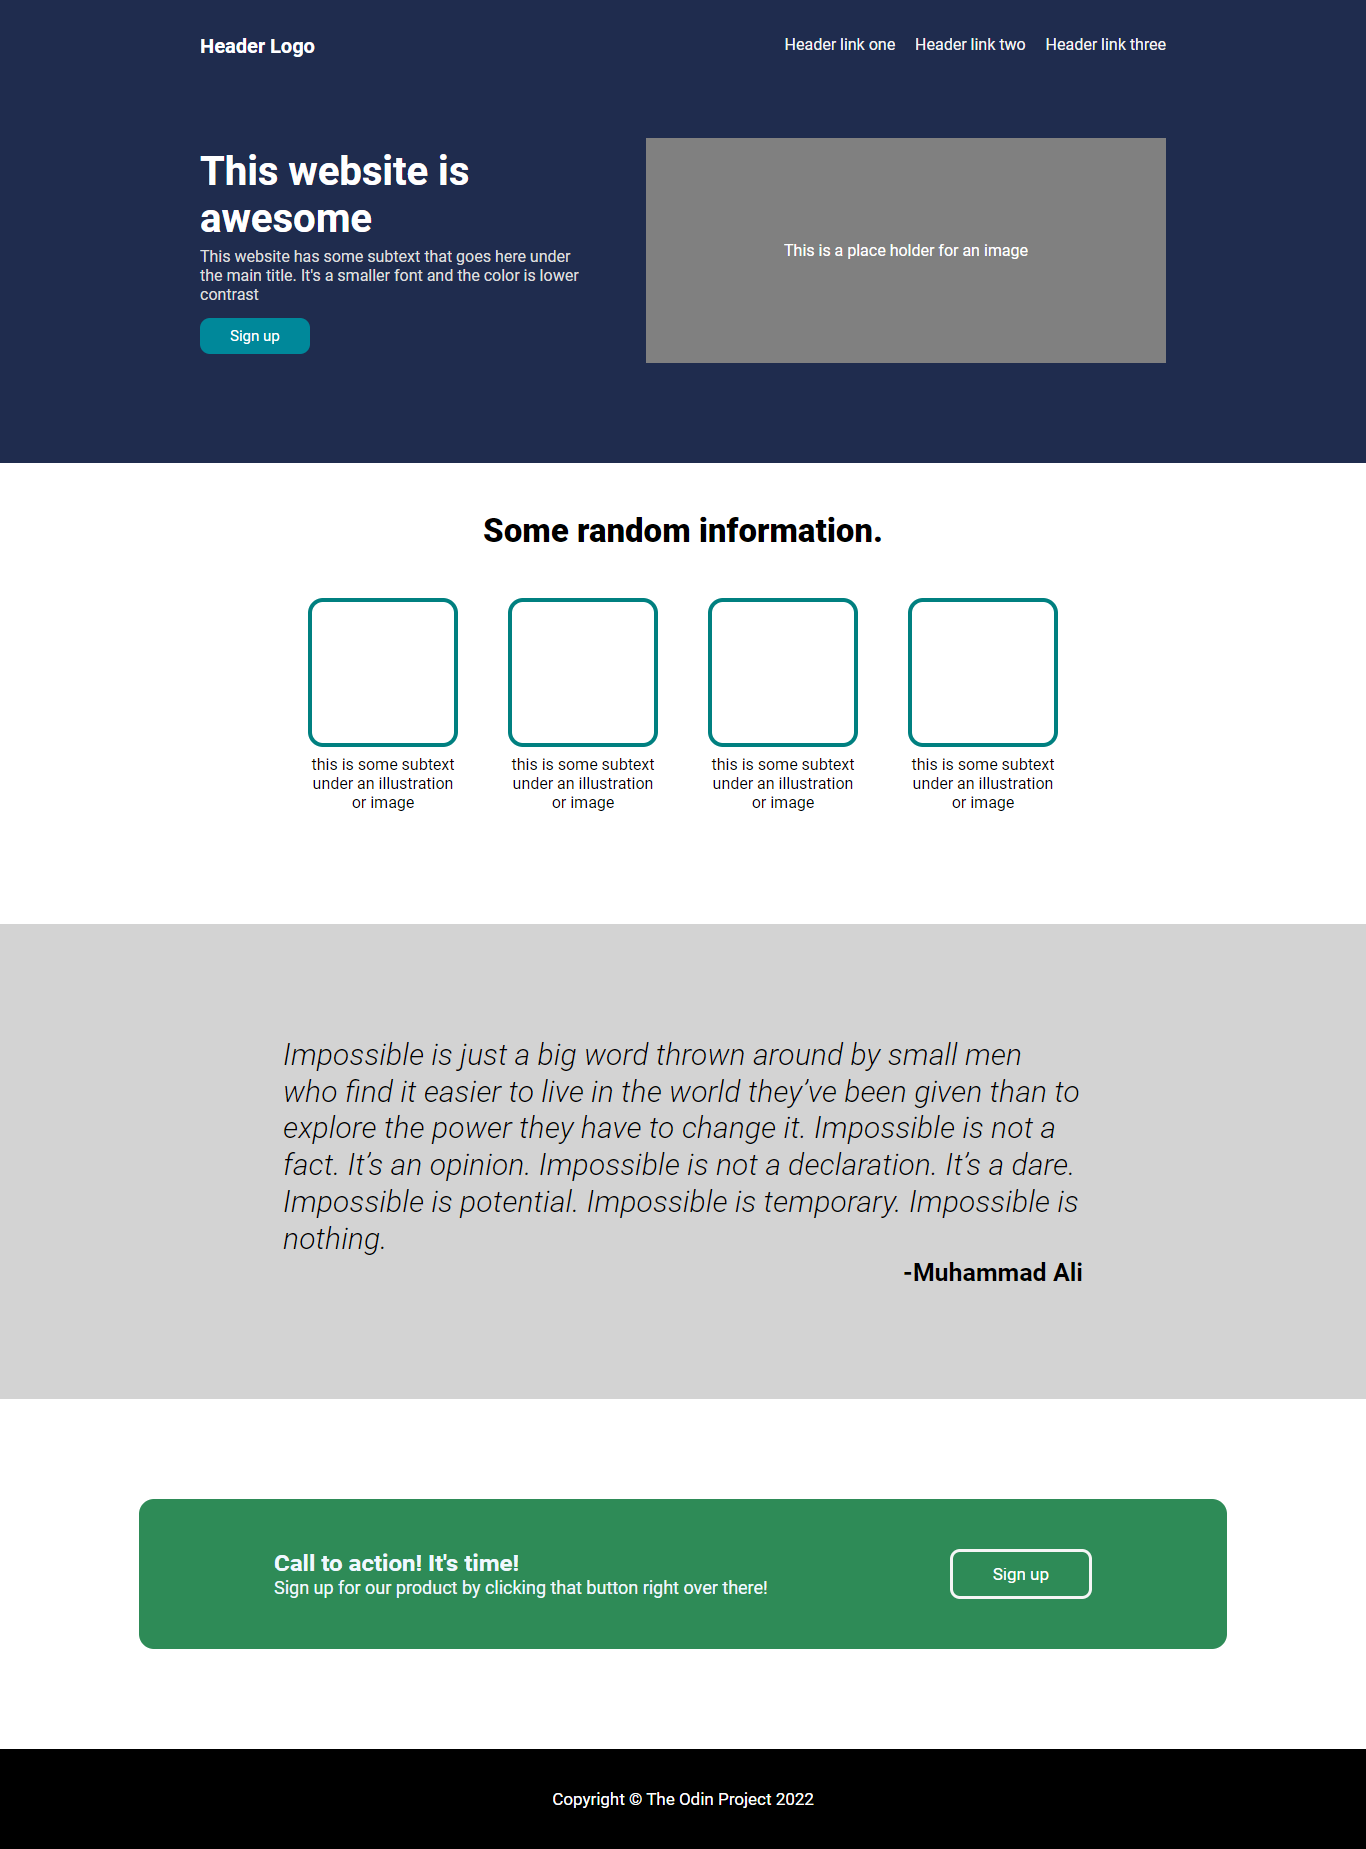
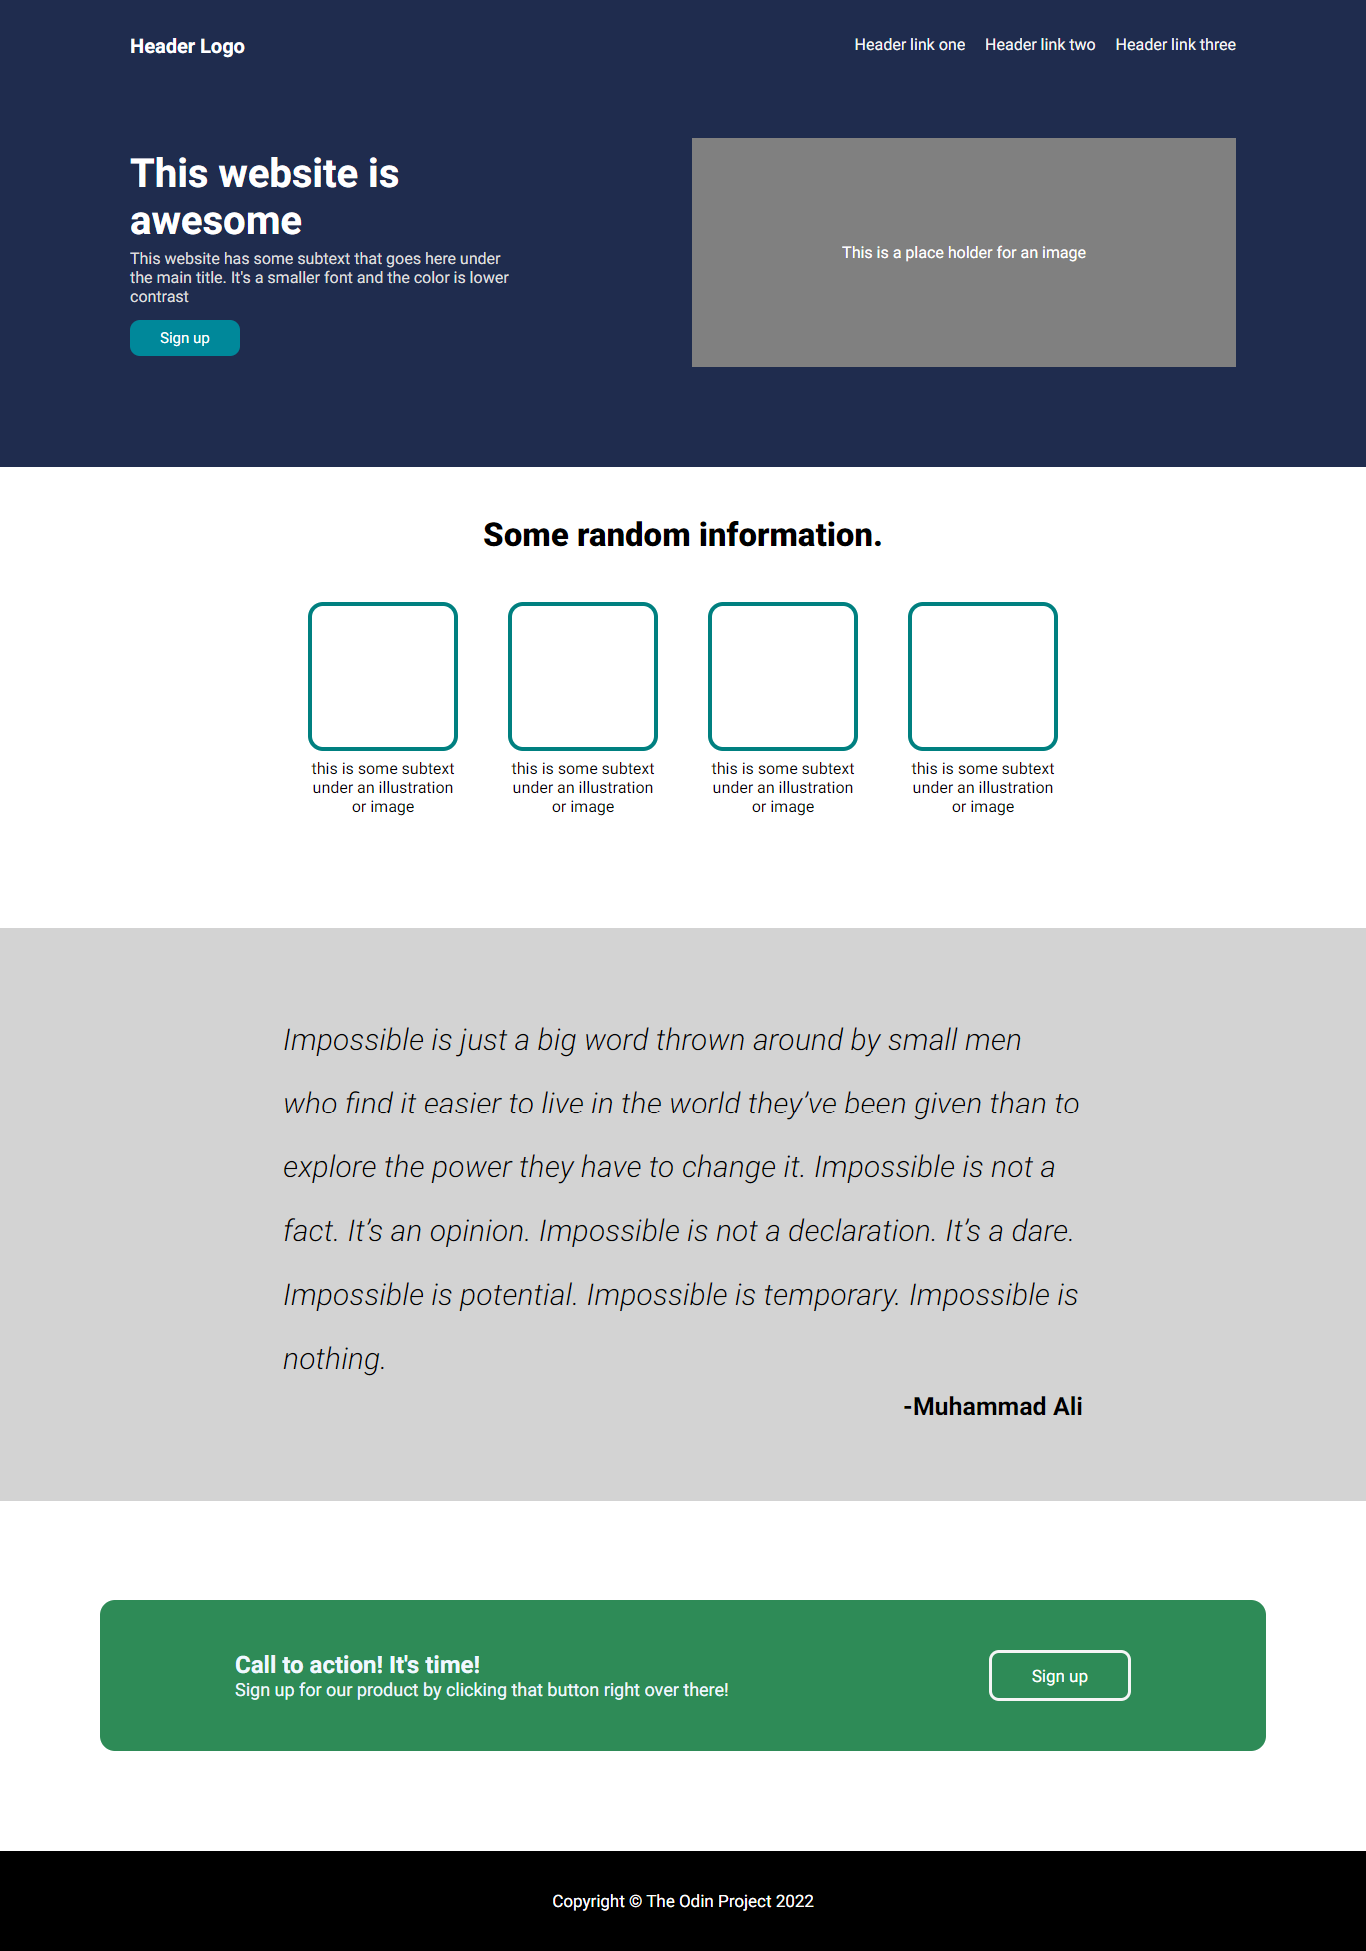
Update screenshot

diff --git a/css/styles.css b/css/styles.css
@@ -84,7 +84,7 @@ a {
 }
 
 .banner .content-2 {
-  padding: 100px;
+  padding: 105px 150px;
   background-color: grey;
   display: flex;
   align-items: center;
